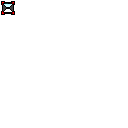
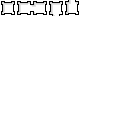
Characters -base body class of all bodies -base GameCharacter class of a character (sadly character is already taken by swing) -Rendering of characters -Some refactoring

Changed region(s): [[0.0, 0.0, 0.625, 0.125]]

diff --git a/SpaceColony/src/com/spacecolony/game/data/level/Level.java b/SpaceColony/src/com/spacecolony/game/data/level/Level.java
@@ -14,10 +14,12 @@
  * You should have received a copy of the GNU General Public License
  * along with this program.  If not, see <http://www.gnu.org/licenses/>.
  */
-package com.spacecolony.game.data;
+package com.spacecolony.game.data.level;
 
-import com.spacecolony.game.graphics.Sprite;
-import com.spacecolony.game.graphics.SpriteSheet;
+import com.spacecolony.game.data.level.body.Body;
+import com.spacecolony.game.data.level.body.GameCharacter;
+import java.util.ArrayList;
+import java.util.List;
 import java.util.Random;
 import org.newdawn.slick.Graphics;
 import org.newdawn.slick.geom.Vector2f;
@@ -28,33 +30,47 @@ import org.newdawn.slick.geom.Vector2f;
  */
 public class Level {
 
+    public static final int TILE_RES = 16;
+
     private int width, height;
 
     private Tile[][] tiles;
+
+    private List<Body> bodies = new ArrayList<>();
 
     public Level(int width, int height, Random rnd) {
         this.width = width;
         this.height = height;
 
         tiles = new Tile[width][height];
-        tiles[rnd.nextInt(width)][rnd.nextInt(height)] = new Tile(TileType.DEFAULT_TYPE);
+
+        int x = rnd.nextInt(width),
+                y = rnd.nextInt(height);
+
+        tiles[x][y] = new Tile(TileType.DEFAULT_TYPE);
+
+        bodies.add(new GameCharacter((x + .5f) * TILE_RES, (y + .5f) * TILE_RES, rnd));
     }
 
     public void render(Graphics g, Vector2f pos, Vector2f port) {
-        int bx = (int) pos.x / 16;
-        int by = (int) pos.y / 16;
-        int ex = bx + (int) port.x / 16 + 2;
-        int ey = by + (int) port.y / 16 + 2;
-        
-        ex = ex<width?ex:width;
-        ey = ey<height?ey:height;
-        
+        int bx = (int) pos.x / TILE_RES;
+        int by = (int) pos.y / TILE_RES;
+        int ex = bx + (int) port.x / TILE_RES + 2;
+        int ey = by + (int) port.y / TILE_RES + 2;
+
+        ex = ex < width ? ex : width;
+        ey = ey < height ? ey : height;
+
         for (int i = bx; i < ex; i++) {
             for (int j = by; j < ey; j++) {
-                if(tiles[i][j]!= null){
-                    g.drawImage(tiles[i][j].getSprite().getImage(), i * 16, j * 16);
+                if (tiles[i][j] != null) {
+                    g.drawImage(tiles[i][j].getSprite().getImage(), i * TILE_RES, j * TILE_RES);
                 }
             }
+        }
+
+        for (Body body : bodies) {
+            body.render(g);
         }
     }
 

diff --git a/SpaceColony/src/com/spacecolony/game/data/level/body/GameCharacter.java b/SpaceColony/src/com/spacecolony/game/data/level/body/GameCharacter.java
@@ -1,0 +1,69 @@
+/*
+ * Copyright (C) 2015 1448607
+ *
+ * This program is free software: you can redistribute it and/or modify
+ * it under the terms of the GNU General Public License as published by
+ * the Free Software Foundation, either version 3 of the License, or
+ * (at your option) any later version.
+ *
+ * This program is distributed in the hope that it will be useful,
+ * but WITHOUT ANY WARRANTY; without even the implied warranty of
+ * MERCHANTABILITY or FITNESS FOR A PARTICULAR PURPOSE.  See the
+ * GNU General Public License for more details.
+ *
+ * You should have received a copy of the GNU General Public License
+ * along with this program.  If not, see <http://www.gnu.org/licenses/>.
+ */
+package com.spacecolony.game.data.level.body;
+
+import com.spacecolony.game.graphics.Sprite;
+import java.util.Random;
+import org.newdawn.slick.Color;
+import org.newdawn.slick.Graphics;
+
+/**
+ *
+ * @author 1448607
+ */
+public class GameCharacter extends Body {
+
+    public static final int CHAR_DEFAULT_SIZE = 8;
+
+    private Sprite[] spriteDirs = new Sprite[]{
+        Sprite.Chars.Default.F,
+        Sprite.Chars.Default.L,
+        Sprite.Chars.Default.R,
+        Sprite.Chars.Default.B
+    };
+    private Sprite[] spriteDirsMask = new Sprite[]{
+        Sprite.Chars.Default.F_M,
+        Sprite.Chars.Default.L_M,
+        Sprite.Chars.Default.R_M,
+        Sprite.Chars.Default.B_M
+    };
+
+    private static final Color[] POSSIBLE_COLORS = new Color[]{
+        new Color(0x440000ff),
+        new Color(0x44ff0000),
+        new Color(0x4400ff00),
+        new Color(0x44999900),
+        new Color(0x44009999),
+        new Color(0x44990099)
+    };
+    
+    private Color color;
+
+    public GameCharacter(float x, float y, Random characterGenerator) {
+        setPos(x - CHAR_DEFAULT_SIZE / 2, y - CHAR_DEFAULT_SIZE / 2);
+        setSize(CHAR_DEFAULT_SIZE, CHAR_DEFAULT_SIZE);
+        
+        color = POSSIBLE_COLORS[characterGenerator.nextInt(POSSIBLE_COLORS.length)];
+    }
+
+    @Override
+    public void render(Graphics g) {
+        g.drawImage(spriteDirs[0].getImage(), pos.x, pos.y);
+        g.drawImage(spriteDirsMask[0].getImage(), pos.x, pos.y, color);
+    }
+
+}

diff --git a/SpaceColony/src/com/spacecolony/game/data/level/body/Body.java b/SpaceColony/src/com/spacecolony/game/data/level/body/Body.java
@@ -14,28 +14,45 @@
  * You should have received a copy of the GNU General Public License
  * along with this program.  If not, see <http://www.gnu.org/licenses/>.
  */
-package com.spacecolony.game.data;
+package com.spacecolony.game.data.level.body;
 
-import com.spacecolony.game.graphics.Sprite;
+import org.newdawn.slick.Graphics;
+import org.newdawn.slick.geom.Vector2f;
 
 /**
- *
+ * A simple in-game body. (an object that moves)
  * @author 1448607
  */
-public class Tile {
+public abstract class Body {
     
-    private TileType tileType;
+    protected Vector2f pos = new Vector2f();
+    protected Vector2f size = new Vector2f();
 
-    public Tile(TileType tileType) {
-        this.tileType = tileType;
-    }
-    
-    public Sprite getSprite(){
-        return tileType.getSprite();
+    public Body() {
     }
 
-    public TileType getTileType() {
-        return tileType;
+    public void setSize(Vector2f size) {
+        this.size = size;
+    }
+
+    public void setPos(Vector2f pos) {
+        this.pos = pos;
+    }
+
+    public void setSize(float x, float y) {
+        size.x = x;
+        size.y = y;
+    }
+
+    public void setPos(float x, float y) {
+        pos.x = x;
+        pos.y = y;
+    }
+    
+    public void render(Graphics g){
+    }
+    
+    public void update(float dt){
     }
     
 }

diff --git a/SpaceColony/src/com/spacecolony/game/graphics/Sprite.java b/SpaceColony/src/com/spacecolony/game/graphics/Sprite.java
@@ -23,9 +23,24 @@ import org.newdawn.slick.Image;
  * @author 1448607
  */
 public class Sprite {
-    
+
     public static final Sprite DEFAULT_TEST = new Sprite(SpriteSheet.TEST, 0, 0, 16, 16);
+
+    public static class Chars{
+        public static class Default{
+            public static final Sprite F = new Sprite(SpriteSheet.CHARACTERS, 0, 0, 8, 8);
+            public static final Sprite R = new Sprite(SpriteSheet.CHARACTERS, 8, 0, 8, 8);
+            public static final Sprite B = new Sprite(SpriteSheet.CHARACTERS, 0, 8, 8, 8);
+            public static final Sprite L = new Sprite(SpriteSheet.CHARACTERS, 8, 8, 8, 8);
+
+            public static final Sprite F_M = new Sprite(SpriteSheet.CHARACTERS, 16, 0, 8, 8);
+            public static final Sprite R_M = new Sprite(SpriteSheet.CHARACTERS, 16 + 8, 0, 8, 8);
+            public static final Sprite B_M = new Sprite(SpriteSheet.CHARACTERS, 16, 8, 8, 8);
+            public static final Sprite L_M = new Sprite(SpriteSheet.CHARACTERS, 16 + 8, 8, 8, 8);
+        }
+    }
     
+
     private Image image;
 
     public Sprite(SpriteSheet ss, int x, int y, int w, int h) {
@@ -35,5 +50,5 @@ public class Sprite {
     public Image getImage() {
         return image;
     }
-    
+
 }

diff --git a/SpaceColony/src/com/spacecolony/game/data/level/Tile.java b/SpaceColony/src/com/spacecolony/game/data/level/Tile.java
@@ -14,29 +14,28 @@
  * You should have received a copy of the GNU General Public License
  * along with this program.  If not, see <http://www.gnu.org/licenses/>.
  */
-package com.spacecolony.game;
+package com.spacecolony.game.data.level;
 
-import org.newdawn.slick.AppGameContainer;
-import org.newdawn.slick.SlickException;
+import com.spacecolony.game.graphics.Sprite;
 
 /**
- * The main class. Initialyses the game.
+ *
  * @author 1448607
  */
-public class Init {
+public class Tile {
+    
+    private TileType tileType;
 
-    /**
-     * Main.
-     * @param args the command line arguments
-     */
-    public static void main(String[] args) {
-        try {
-            AppGameContainer app = new AppGameContainer(new Game("test"));
-            app.setDisplayMode(Game.WIDTH * Game.SCALE, Game.HEIGHT * Game.SCALE, false);
-            app.start();
-        } catch (SlickException e) {
-            e.printStackTrace();
-        }
+    public Tile(TileType tileType) {
+        this.tileType = tileType;
+    }
+    
+    public Sprite getSprite(){
+        return tileType.getSprite();
     }
 
+    public TileType getTileType() {
+        return tileType;
+    }
+    
 }

diff --git a/SpaceColony/src/com/spacecolony/game/graphics/SpriteSheet.java b/SpaceColony/src/com/spacecolony/game/graphics/SpriteSheet.java
@@ -30,6 +30,7 @@ import org.newdawn.slick.SlickException;
 public class SpriteSheet{
     
     public static final SpriteSheet TEST = new SpriteSheet("Images/Test.png");
+    public static final SpriteSheet CHARACTERS = new SpriteSheet("Images/Characters.png");
     
     private static final ExceptionThrower THROWER = new ExceptionThrower();
 

diff --git a/SpaceColony/src/com/spacecolony/game/data/level/TileType.java b/SpaceColony/src/com/spacecolony/game/data/level/TileType.java
@@ -14,7 +14,7 @@
  * You should have received a copy of the GNU General Public License
  * along with this program.  If not, see <http://www.gnu.org/licenses/>.
  */
-package com.spacecolony.game.data;
+package com.spacecolony.game.data.level;
 
 import com.spacecolony.game.graphics.Sprite;
 

diff --git a/SpaceColony/src/com/spacecolony/game/Game.java b/SpaceColony/src/com/spacecolony/game/Game.java
@@ -16,7 +16,7 @@
  */
 package com.spacecolony.game;
 
-import com.spacecolony.game.data.Level;
+import com.spacecolony.game.data.level.Level;
 import com.spacecolony.game.data.input.PlayerInput;
 import com.spacecolony.game.gui.UIButton;
 import com.spacecolony.game.gui.UIElement;
